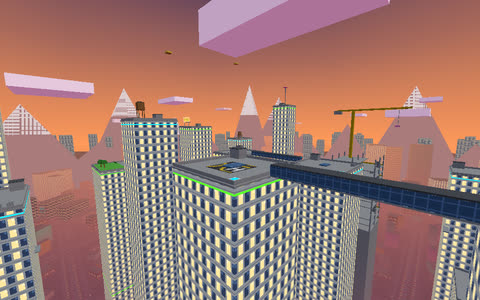
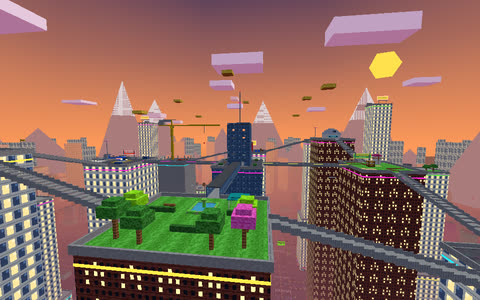
Skyline gets its own Plant & Defuse map: Jank Cola's crashers vs ☺ CORP security, the sites up on two sky roofs
The attackers start on the Jank Cola tower (south), security on ☺ CORP HQ (north), and neither spawn can see the
other (a glass privacy wall on each). In the middle the Spire's deck, 4 m lower; nine roofs joined by stair-bridges.
B is the observatory roof (the dome, a radio mast on its plinth, the ticket kiosk, a planter, coin telescopes, a lift
house), A the helipad (the parked chopper, its fuel cart and cargo, jersey barriers, the booth). Attackers reach
either site in about 13 s, defenders in about 5 s, and the two sites are an even walk. Big A / B boards on the site
towers' faces under the attackers' stairs, and the letter again on each site.

Bomb bots know it: three attack lanes and a security route per site, 12 holds and 3 plant spots each; they plant
on both sites, defuse and blow it up. Every helipad now shows one big H (the texture used to tile into two and a bit).
New vote thumbnails for both Skylines.

Claude-Session: https://claude.ai/code/session_01Ayo4eoNwzdSZHLDu2TcaED

diff --git a/shared/map.js b/shared/map.js
@@ -222,7 +222,7 @@ function tower(B, x, z, w, d, h, o = {}) {
   if (kind === 'tank') waterTower(L, hw - 5, hd - 5, 0);
   if (kind === 'antenna') { L.B(2, 9, 2, 0.5, 18, 0.5, 'metal'); L.B(2, 18.4, 2, 3, 0.6, 3, 'pink'); }
   if (kind === 'billboard') billboard(L, 0, hd - 2, 0, 'x');
-  if (kind === 'helipad') L(-5.5, 0, -5.5 + 2, 5.5, 0.15, 5.5 + 2, 'helipad');
+  if (kind === 'helipad') L(-5.5, 0, -5.5 + 2, 5.5, 0.15, 5.5 + 2, 'helipad', { fit: 1 });
   if (kind === 'garden') {
     L(-hw + 0.5, 0, 0, hw - 0.5, 0.3, hd - 0.5, 'grass');
     tree(L, -3, hd - 4, 3); tree(L, 3, hd - 5, 3.5);
@@ -618,7 +618,7 @@ function penthouse(B, D, cx, cz, y, o = {}) {
   L(-7.5, 7.9, -3.0, -7.4, 8.9, 1.5, 'metal'); L(-9.85, 7.9, 1.5, -7.4, 8.9, 1.6, 'metal');
   wall(L, 'x', -8, -10.15, 10.15, 7.9, 8.7, 0.3, 'glassblock'); wall(L, 'x', 8, -10.15, 10.15, 7.9, 8.7, 0.3, 'glassblock');
   wall(L, 'z', -10, -7.85, 7.85, 7.9, 8.7, 0.3, 'glassblock'); wall(L, 'z', 10, -7.85, 7.85, 7.9, 8.7, 0.3, 'glassblock');
-  L(-4.5, 7.9, -4.5, 4.5, 8.0, 4.5, 'helipad');
+  L(-4.5, 7.9, -4.5, 4.5, 8.0, 4.5, 'helipad', { fit: 1 });
   Ld(-10.21, 7.65, -8.21, 10.21, 7.85, -8.15, 'neonpink'); Ld(-10.21, 7.65, 8.15, 10.21, 7.85, 8.21, 'neonpink'); // neon round the roof's edge
   Ld(-10.21, 7.65, -8.15, -10.15, 7.85, 8.15, 'neonpink'); Ld(10.15, 7.65, -8.15, 10.21, 7.85, 8.15, 'neonpink');
   Ld(-5, 6.9, 8.15, 5, 7.5, 8.2, 'adparty', { fit: 1 }); // over the long window, for the pool
@@ -2628,7 +2628,7 @@ function skyGarden(B, D, x, z, y, r) {
 function skyNews(B, D, x, z, y, r) {
   const add = B.add, W = B.local(0, 0, 0);
   {
-    add(x - 7, y, z - 7, x + 3, y + 0.1, z + 7, 'helipad'); chopper(B, D, x - 2, y + 0.1, z, 'toyblue'); D.add(x - 4.5, y + 1.4, z + 1.21, x - 0.5, y + 2.2, z + 1.25, 'adnews', { fit: 1 });
+    add(x - 7, y, z - 7, x + 3, y + 0.1, z + 7, 'helipad', { fit: 1 }); chopper(B, D, x - 2, y + 0.1, z, 'toyblue'); D.add(x - 4.5, y + 1.4, z + 1.21, x - 0.5, y + 2.2, z + 1.25, 'adnews', { fit: 1 });
     add(x - 11, y, z + 8, x - 8, y + 1.2, z + 11, 'metal'); D.add(x - 12.5, y + 1.2, z + 6.5, x - 6.5, y + 1.5, z + 12.5, 'white'); D.add(x - 9.7, y + 1.5, z + 9.3, x - 9.3, y + 3.6, z + 9.7, 'metal'); // the dish
     for (const [lx, lz] of [[6, -10], [9, -10], [6, 10], [9, 10]]) { B.box(x + lx, y + 1.4, z + lz, 0.15, 2.8, 0.15, 'metal'); D.box(x + lx, y + 2.9, z + lz, 0.8, 0.6, 0.5, 'lamp'); }
     for (const lz of [-12.6, 12.6]) { add(x + 4, y, z + lz - 0.6, x + 8, y + 1.6, z + lz + 0.6, 'containerb'); }
@@ -2679,14 +2679,15 @@ function skyObs(B, D, x, z, y, r) {
     D.add(x - 4, y + 1.5, z + 6, x + 4, y + 3.3, z + 6.06, 'adobs', { fit: 1 });
     for (const [bx, bz] of [[-9, 9], [9, 9], [-9, -9], [9, -9]]) add(x + bx - 1.3, y, z + bz - 0.3, x + bx + 1.3, y + 0.5, z + bz + 0.3, 'wood'); }
 }
-// the helipad: the big pad, a parked chopper, fuel tanks, the control booth, a windsock
-function skyHeli(B, D, x, z, y, r) {
+// the helipad: the big pad, a parked chopper, fuel tanks, the control booth, a windsock. f = -1 puts the tanks and the
+// booth on the north side (S&D: out of the line of the attackers' stairs)
+function skyHeli(B, D, x, z, y, r, f = 1) {
   const add = B.add, W = B.local(0, 0, 0);
   {
-    add(x - 8, y, z - 8, x + 8, y + 0.1, z + 8, 'helipad'); chopper(B, D, x + 1, y + 0.1, z - 1, 'toyred');
-    for (const tx of [-11, -8.5]) { add(x + tx - 0.9, y, z + 9.6, x + tx + 0.9, y + 2.6, z + 11.4, 'barrelr'); }
-    add(x + 9, y, z + 9, x + 12.6, y + 2.8, z + 12.6, 'metal'); D.add(x + 8.96, y + 1.2, z + 9.4, x + 9, y + 2.4, z + 12.2, 'glass'); // the booth
-    B.box(x + 12.5, y + 2, z - 12.5, 0.15, 4, 0.15, 'metal'); D.add(x + 12.5, y + 3.4, z - 12.6, x + 14, y + 3.9, z - 12.4, 'hazard'); }
+    add(x - 8, y, z - 8, x + 8, y + 0.1, z + 8, 'helipad', { fit: 1 }); chopper(B, D, x + 1, y + 0.1, z - (f < 0 ? 3 : 1), 'toyred'); // (S&D: off the pad's middle, the site's)
+    for (const tx of [-11, -8.5]) { add(x + tx - 0.9, y, z + f * 9.6, x + tx + 0.9, y + 2.6, z + f * 11.4, 'barrelr'); }
+    add(x + 9, y, z + f * 9, x + 12.6, y + 2.8, z + f * 12.6, 'metal'); D.add(x + 8.96, y + 1.2, z + f * 9.4, x + 9, y + 2.4, z + f * 12.2, 'glass'); // the booth
+    B.box(x + 12.5, y + 2, z - f * 12.5, 0.15, 4, 0.15, 'metal'); D.add(x + 12.5, y + 3.4, z - f * 12.6, x + 14, y + 3.9, z - f * 12.4, 'hazard'); }
 }
 
 // ------------------------------------------------------------ SKYLINE: the high city. nine tops in a three by three grid
@@ -2773,6 +2774,122 @@ function skyline() {
       stairs: [-1, 1].flatMap((sx) => [-1, 1].flatMap((sz) => { const cy = sx === sz ? lo : hi, hiEnd = cy > R;
         const a = { p: [sx * 14.4, R, sz * S], q: [sx * (S - 13.4), cy, sz * S] }, b = { p: [sx * S, R, sz * 14.4], q: [sx * S, cy, sz * (S - 13.4)] };
         return [a, b].map(({ p, q }) => (hiEnd ? { top: q, bot: p } : { top: p, bot: q })); })) })); },
+  };
+  return map;
+}
+
+
+// ------------------------------------------------------------ SKYLINE S&D: the Spire job (Plant & Defuse). the crashers
+// (attackers) come up the Jank Cola tower (south), ☺ CORP's security (defenders) hold their HQ tower (north). in the
+// middle, 4 m down, the Spire's hub deck round its glass shaft (it stands between the spawns). the sites sit either
+// side of the HQ, a stair-bridge up from it to each: B, the observatory's roof (west); A, the helipad's (east). the
+// crashers' ways in: down into mid and up the stair-bridge onto the news / mini-golf roof, or out along the side (down
+// onto the garden / the greenhouse, up onto the news / mini-golf roof), then up one of two stair-bridges onto the site.
+// both spawn towers have a privacy wall along their edge over mid
+function skylineSD() {
+  const B = builder(), D = builder(), r = rng(1338), add = B.add, W = B.local(0, 0, 0), Dw = D.local(0, 0, 0);
+  const base = -120, Cy = 36, pick = (a) => a[(r() * a.length) | 0];
+  // ---- the tops: [x, z, half x, half z, roof y]. middle column x [-14, 14]: the HQ z [-78, -50], the hub z [-40, 2],
+  // the cola tower z [10, 38]. either side x [34, 62]: the sites z [-84, -46], the news / mini-golf roofs z [-39, -9],
+  // the garden / greenhouse z [-2, 26]
+  const tops = { N: [0, -64, 14, 14, 40], C: [0, -19, 14, 21, Cy], S: [0, 24, 14, 14, 40], B: [-48, -65, 14, 19, 46], A: [48, -65, 14, 19, 46],
+    W: [-48, -24, 14, 15, 42], E: [48, -24, 14, 15, 42], SW: [-48, 12, 14, 14, 38], SE: [48, 12, 14, 14, 38] };
+  const gaps = { N: { s: [[-2, 2]], w: [[-66, -62]], e: [[-66, -62]] }, C: { n: [[-2, 2]], s: [[-2, 2]], w: [[-26, -22]], e: [[-26, -22]] }, S: { n: [[-2, 2]], w: [[16, 20]], e: [[16, 20]] },
+    B: { e: [[-66, -62]], s: [[-58, -54], [-42, -38]] }, A: { w: [[-66, -62]], s: [[38, 42], [54, 58]] },
+    W: { n: [[-58, -54], [-42, -38]], e: [[-26, -22]], s: [[-50, -46]] }, E: { n: [[38, 42], [54, 58]], w: [[-26, -22]], s: [[46, 50]] },
+    SW: { n: [[-50, -46]], e: [[16, 20]] }, SE: { n: [[46, 50]], w: [[16, 20]] } };
+  const facade = { N: 'office', C: 'glassblock', S: 'tenement', B: 'tenement', A: 'office', W: 'office', E: 'tenement', SW: 'office', SE: 'tenement' };
+  for (const [k, [x, z, hx, hz, y]] of Object.entries(tops)) {
+    roofTop(B, x - hx, z - hz, x + hx, z + hz, y, facade[k], gaps[k], base);
+    D.add(x - hx + 0.3, y, z - hz + 0.3, x + hx - 0.3, y + 0.02, z + hz - 0.3, k === 'SW' || k === 'E' ? 'lawn' : 'asphalt');
+  }
+  // ---- the links
+  stairBridge(B, false, 2.4, 9.6, 0, Cy, 40); stairBridge(B, false, -40.4, -49.6, 0, Cy, 40); // the hub up to the cola tower, up to the HQ
+  for (const s of [-1, 1]) {
+    stairBridge(B, true, s * 33.6, s * 14.4, 18, 38, 40, 4, true); // the cola tower down to the garden / greenhouse
+    stairBridge(B, false, -2.4, -8.6, s * 48, 38, 42); // the garden / greenhouse up to the news / mini-golf roof
+    for (const x of [40, 56]) stairBridge(B, false, -39.4, -45.6, s * x, 42, 46); // up onto the site (two ways)
+    stairBridge(B, true, s * 14.4, s * 33.6, -24, Cy, 42, 4, true); // mid up to the news / mini-golf roof
+    stairBridge(B, true, s * 14.4, s * 33.6, -64, 40, 46, 4, true); // the HQ up to the site
+  }
+  // privacy walls on the spawn towers' edges over mid (open at the stairs)
+  for (const [x0, x1] of [[-14.4, -2], [2, 14.4]]) { add(x0, 41, 9.6, x1, 43.2, 10, 'glassblock'); D.add(x0, 43.2, 9.54, x1, 43.35, 10.06, 'neonpink'); add(x0, 41, -50, x1, 43.2, -49.6, 'glassblock'); D.add(x0, 43.2, -50.06, x1, 43.35, -49.54, 'neoncyan'); }
+  // ---- mid: the Spire's hub deck, its shaft (four floors, stairs inside, a roof to snipe from), planters, benches, AC
+  shell(B.local(0, -19, 0, Cy), 12, 12, 4, 4.4, 'glassblock', { floor: 'grid', roof: 'roofg', roofAccess: true, backDoor: true, sideDoor: [-1.5, 1.5], winSpacing: 3 });
+  B.box(0, Cy + 17.9 + 7, -19, 0.6, 14, 0.6, 'metal'); D.box(0, Cy + 17.9 + 14.3, -19, 0.6, 0.6, 0.6, 'neonred');
+  for (const [x, z] of [[-9, -36], [9, -36], [-9, -2], [9, -2]]) { add(x - 1.2, Cy, z - 1.2, x + 1.2, Cy + 0.8, z + 1.2, 'stone'); D.add(x - 1.0, Cy + 0.8, z - 1.0, x + 1.0, Cy + 1.6, z + 1.0, 'hedge'); }
+  for (const [x, z] of [[-10, -30], [10, -8]]) add(x - 0.3, Cy, z - 1.5, x + 0.3, Cy + 0.5, z + 1.5, 'wood');
+  acUnit(W, -10, -10, Cy); acUnit(W, 10, -30, Cy); B.box(-4, Cy + 0.6, -33, 1.2, 1.2, 1.2, 'crate'); B.box(5, Cy + 0.6, -4, 1.2, 1.2, 1.2, 'crate');
+  // ---- the set pieces
+  skyObs(B, D, -48, -74, 46, r); skyHeli(B, D, 48, -65, 46, r, -1); // the two sites
+  skyNews(B, D, -48, -24, 42, r); skyPutt(B, D, 48, -24, 42, r); skyGarden(B, D, -48, 12, 38, r); skyGreen(B, D, 48, 12, 38, r);
+  skyCola(B, D, 0, 24, 40, r); // the crashers' tower
+  // more cover on the sites (the bomb wants somewhere to hide)
+  for (const s of [-1, 1]) { acUnit(W, s * 58, -50, 46); acUnit(W, s * 58, -80, 46); B.box(s * 38, 46.6, -80, 1.2, 1.2, 1.2, 'crate'); B.box(s * 39.4, 46.6, -80, 1.2, 1.2, 1.2, 'crate'); B.box(s * 52, 46.45, -50, 0.9, 0.9, 0.9, 'metal'); }
+  // the sites' cover. both: a building in the back corner with the site letter on it (B: a lift house, A: the helipad's
+  // booth), a crate stack, the letter on the tower's face under the attackers' stairs. B: the ticket kiosk, a planter, coin
+  // telescopes. A: the chopper's cargo, jersey barriers by the defenders' way in
+  B.box(-59.5, 47.6, -74.8, 3.8, 3.2, 4.4, 'concrete'); B.box(-59.5, 49.35, -74.8, 4.2, 0.3, 4.8, 'roofg');
+  D.add(-60.4, 46, -72.6, -58.8, 48.2, -72.5, 'metal'); siteBoard(D, -57.52, 46.8, -74.8, 'z', 'siteb', 2.6);
+  siteBoard(D, 58.8, 46.5, -73.92, 'x', 'sitea', 1.8);
+  for (const s of [-1, 1]) siteBoard(D, s * 48, 42.6, -45.92, 'x', s < 0 ? 'siteb' : 'sitea', 3);
+  for (const [x, z, y] of [[-44.5, -61, 46.6], [-44.5, -62.4, 46.6], [-44.4, -61.7, 47.8], [45.1, -54.6, 46.6], [46.5, -54.4, 46.6], [45.8, -54.5, 47.8]]) B.box(x, y, z, 1.2, 1.2, 1.2, 'crate');
+  add(-39.2, 46, -75.2, -36.8, 48.6, -72.8, 'toyteal'); add(-39.4, 48.6, -75.4, -36.6, 48.9, -72.6, 'roofg'); // the kiosk
+  D.add(-39.3, 47.2, -74.6, -39.2, 48.2, -73.4, 'glass'); siteBoard(D, -38, 46.5, -72.72, 'x', 'siteb', 1.8);
+  add(-57, 46, -62, -53, 47, -60.8, 'concrete'); D.add(-56.8, 47, -61.8, -53.2, 47.1, -61, 'lawn'); // the planter
+  for (const x of [-50, -46]) { B.box(x, 46.6, -47.6, 0.2, 1.2, 0.2, 'metal'); B.box(x, 47.45, -47.5, 0.36, 0.36, 0.8, 'toyyellow'); } // coin telescopes
+  for (const z of [-69.5, -58.5]) add(37.6, 46, z - 1.5, 38.4, 46.9, z + 1.5, 'jersey');
+  // B: the radio mast, its plinth the cover between the two stairs. A: the fuel cart by the near stairs. both: roof vents
+  add(-51, 46, -55.6, -47.8, 48.6, -52.4, 'concrete'); add(-51.2, 48.6, -55.8, -47.6, 48.9, -52.2, 'roofg');
+  D.box(-49.4, 53, -54, 0.3, 8.2, 0.3, 'metal'); for (const [y, w] of [[54.4, 2.6], [56.2, 1.6]]) D.box(-49.4, y, -54, w, 0.12, 0.12, 'metal');
+  for (const s of [-1, 1]) D.box(-49.4 + s * 0.55, 51.6, -53.55, 0.8, 1.1, 0.3, 'white'); D.box(-49.4, 57.25, -54, 0.4, 0.3, 0.4, 'neonpink');
+  add(43, 46.5, -52.6, 45, 48.4, -47.4, 'toyred'); add(43.2, 48.4, -52.3, 44.8, 49.0, -48.2, 'chrome'); // the fuel cart
+  for (const z of [-51.6, -48.4]) for (const x of [42.85, 45.15]) D.box(x, 46.4, z, 0.2, 0.8, 0.8, 'tire');
+  for (const [x, z] of [[-60.6, -58], [-35.6, -52], [-60.6, -66], [60.6, -60], [35.6, -78], [60.6, -66]]) { B.box(x, 46.25, z, 0.6, 0.5, 0.6, 'metal'); D.box(x, 46.53, z, 0.4, 0.06, 0.4, 'grid'); }
+  // ☺ CORP HQ (security): the flag on its mast frame, two machine rooms, AC
+  for (const x of [-6, 6]) add(x - 0.2, 40, -77.6, x + 0.2, 47, -77.2, 'metal');
+  D.add(-8, 42.5, -77.42, 8, 46.8, -77.38, 'flagcorp', { fit: 1 });
+  for (const s of [-1, 1]) { add(s * 6, 40, -60, s * 11, 44, -55, 'concrete'); add(s * 5.8, 44, -60.2, s * 11.2, 44.3, -54.8, 'roofg'); acUnit(W, s * 11, -74, 40); }
+  // ---- outside: the city round about (render-only)
+  const rs = rng(4042), plan = [], roofs = {};
+  for (const [x, z, w, h, t] of [[-130, -130, 34, 70, 3], [0, -140, 30, 30, 2], [130, -130, 36, 90, 3], [-130, -20, 30, 20, 2], [130, -20, 34, 60, 3], [-130, 90, 32, 85, 3], [0, 110, 30, 35, 2], [130, 90, 30, 25, 2]]) {
+    const ry = tower(D, x, z, w, w, h, { tiers: t, base, r: rs }); D.box(x, base - 10, z, w, 20, w, 'office'); plan.push([x, z, w, w, h, t]); roofs[`${x},${z}`] = ry;
+  }
+  const ours = Object.values(tops).map(([x, z, hx, hz, y]) => ({ x, z, w: hx * 2, d: hz * 2, y }));
+  for (const o of ours) { D.add(o.x - o.w / 2 - 0.06, o.y - 2.6, o.z - o.d / 2 - 0.06, o.x + o.w / 2 + 0.06, o.y - 2.1, o.z + o.d / 2 + 0.06, pick(['neoncyan', 'neonpink', 'neonyellow'])); D.add(o.x - o.w / 2, base - 20, o.z - o.d / 2, o.x + o.w / 2, base, o.z + o.d / 2, 'office'); }
+  const roads = { xs: [-170, -95, -23, 23, 95, 170], zs: [-170, -103, 48, 150], w: 14 }; // ±23 so the +x streetlight arms clear the tower walls
+  streetLevel(D, -120, [...plan.map(([x, z, w, d]) => ({ x, z, w, d })), ...ours], roads, 200, rs);
+  cityDress(D, plan, roofs, base, rs);
+  cityBeyond(D, -120, 200, 680, rng(4043), { kill: -108, cap: 30, shore: 470, avenues: [[-60, -230, 0.42], [230, 40, -1.05], [-300, 120, 1.25], [80, -420, 0.06], [-250, -250, 2.35]], streets: gridOut(roads.xs, roads.zs, 200, 200) });
+
+  const att = [[-4, 40.2, 30], [0, 40.2, 31], [4, 40.2, 30], [-10, 40.2, 30], [10, 40.2, 30], [-3, 40.2, 36], [3, 40.2, 36]];
+  const def = [[-4, 40.2, -70], [0, 40.2, -71], [4, 40.2, -70], [-10, 40.2, -70], [10, 40.2, -70], [-3, 40.2, -75], [3, 40.2, -75]];
+  const spawns = [...att.slice(0, 3), ...def.slice(0, 3), [-48, 46.2, -52], [48, 46.2, -52], [-56, 42.2, -24], [56, 42.2, -24], [-40, 38.2, 22], [40, 38.2, 25], [0, Cy + 0.2, -34], [-10, Cy + 0.2, -19], [10, Cy + 0.2, -19]];
+  let graph = null;
+  const map = { name: 'Skyline', size: 'huge', boxes: B.boxes, deco: D.boxes, killY: -108, floorY: -128, cityR: 680, cityCap: 30,
+    haze: { k: 0.88, top: 15, bottom: -120, dist: 120, color: 0xc89aa4 },
+    sky: { top: 0x1a2a5a, mid: 0xff9a5a, bot: 0x0a0a1a, fog: 0xd98a6a }, fogNear: 160, fogFar: 700, spawns, teamSpawns: { att, def }, edgeGuard: true,
+    traffic: { grid: { ...roads, S: 200, y: -120 + 0.08, off: 5 } },
+    nav: {
+      A: [
+        [[0, 31], [8, 26], [14, 18], [24, 18], [35, 17], [37, 0], [48, -1], [48, -6], [48, -12], [36, -18], [36, -36], [40, -39], [40, -43], [40, -48], [44, -58]], // the side: the greenhouse roof, mini golf, up the near stairs
+        [[2, 31], [5, 24], [3, 12], [0, 9], [0, 6], [0, 1], [9, -10], [12, -24], [16, -24], [24, -24], [34, -24], [36, -30], [36, -36], [40, -39], [40, -43], [40, -48], [44, -58]], // mid, up to mini golf, up the near stairs
+        [[4, 31], [8, 26], [14, 18], [24, 18], [35, 17], [37, 0], [48, -1], [48, -6], [48, -10], [60, -10], [60, -36], [56, -39], [56, -43], [56, -48], [52, -58]], // the side, round mini golf, up the far stairs
+        [[0, -70, 40], [8, -66, 40], [13, -64, 40], [24, -64, 43], [33, -64, 46], [38, -64, 46], [42, -63, 46]], // security: over the bridge from the HQ
+      ],
+      B: [
+        [[0, 31], [-8, 26], [-14, 18], [-24, 18], [-35, 17], [-34.5, 0], [-48, -1], [-48, -6], [-48, -12], [-36, -18], [-36, -36], [-40, -39], [-40, -43], [-40, -48], [-44, -58]],
+        [[-2, 31], [-5, 24], [-3, 12], [0, 9], [0, 6], [0, 1], [-9, -10], [-12, -24], [-16, -24], [-24, -24], [-34, -24], [-36, -30], [-36, -36], [-40, -39], [-40, -43], [-40, -48], [-44, -58]],
+        [[-4, 31], [-8, 26], [-14, 18], [-24, 18], [-35, 17], [-34.5, 0], [-48, -1], [-48, -6], [-48, -10], [-61, -11], [-61, -38], [-56, -40], [-56, -43], [-56, -48], [-52, -58]],
+        [[0, -70, 40], [-8, -66, 40], [-13, -64, 40], [-24, -64, 43], [-33, -64, 46], [-38, -63, 46], [-42, -62, 46]],
+      ],
+    },
+    sites: [{ id: 'A', min: [36, 46, -82], max: [60, 46, -48] }, { id: 'B', min: [-60, 46, -82], max: [-36, 46, -48] }],
+    get graph() { return graph || (graph = buildNav(B.boxes, { x0: -66, z0: -88, n: 132, cell: 1, levels: [Cy, 38, 40, 42, 46], band: 0.6,
+      stairs: [{ top: [0, 40, 10.6], bot: [0, Cy, 1.4] }, { top: [0, 40, -50.6], bot: [0, Cy, -39.4] }, ...[-1, 1].flatMap((s) => [
+        { top: [s * 13.4, 40, 18], bot: [s * 34.6, 38, 18] }, { top: [s * 48, 42, -9.6], bot: [s * 48, 38, -1.4] },
+        { top: [s * 40, 46, -46.6], bot: [s * 40, 42, -38.4] }, { top: [s * 56, 46, -46.6], bot: [s * 56, 42, -38.4] },
+        { top: [s * 34.6, 42, -24], bot: [s * 13.4, Cy, -24] }, { top: [s * 34.6, 46, -64], bot: [s * 13.4, 40, -64] }])] })); },
   };
   return map;
 }
@@ -3916,7 +4033,7 @@ function deadmall() {
 
 export const MAPS = {
   crate: crate(), platform: platform(), rooftop: rooftop(), rooftop_sd: rooftopSD(), suburb: suburb(), suburb_sd: suburbSD(), warehouse: warehouse(), warehouse_sd: warehouseSD(),
-  desert: desert(), desert_sd: desertSD(), islands: islands(), skyline: skyline(), bazaar: bazaar(), bazaar_sd: bazaarSD(), range: range(), backrooms: backrooms(), forest: forest(),
+  desert: desert(), desert_sd: desertSD(), islands: islands(), skyline: skyline(), skyline_sd: skylineSD(), bazaar: bazaar(), bazaar_sd: bazaarSD(), range: range(), backrooms: backrooms(), forest: forest(),
   deadmall: deadmall(),
 };
 // maps with an S&D version: '<id>_sd' is its own layout on the bomb-map rules, the one Plant & Defuse plays; '<id>' is
